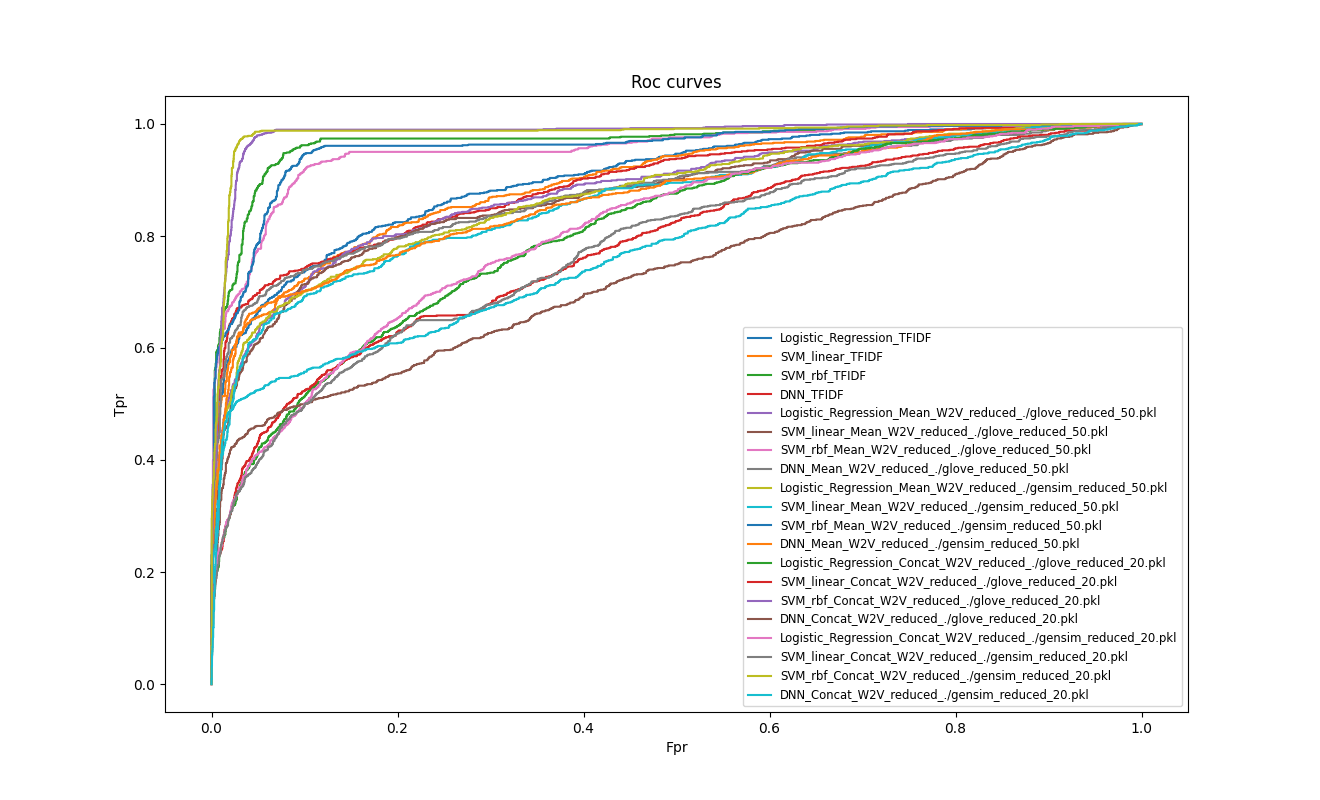
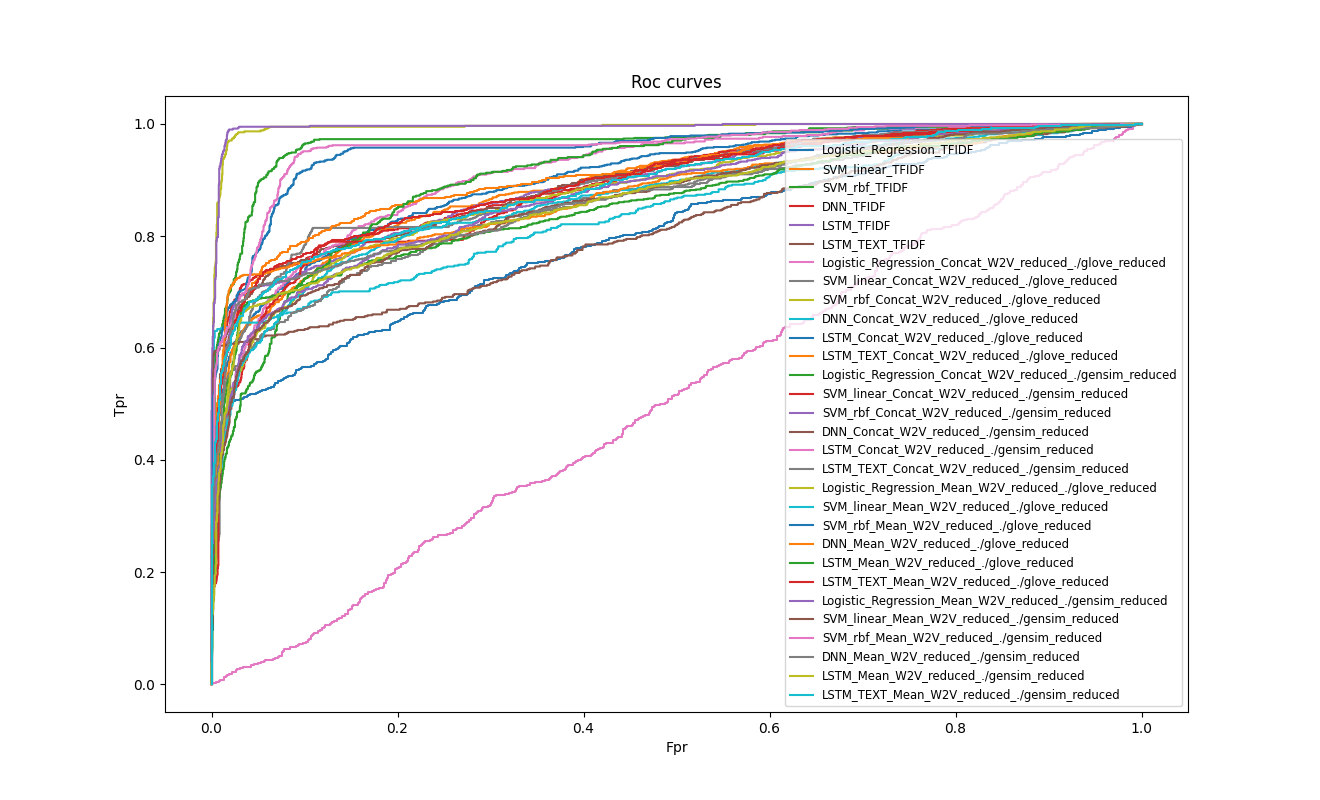
trump test

diff --git a/driver.py b/driver.py
@@ -10,6 +10,7 @@ from classifier import LRClassifier, BasicNN, SVMClassifier, LSTMClassifier, Tex
 from visualize import plot_all
 import numpy as np
 import pickle
+import pandas as pd
 
 VECTOR_SIZE = 50
 CONCAT_VECTOR_SIZE = 30
@@ -17,9 +18,7 @@ NUM_OF_WORDS = 14
 ID_1 = 313278889
 ID_2 = 302680665
 N_META_FEATURES = 9
-BEST_CLS = TextNumericalInputsClassifier(vector_size=VECTOR_SIZE, n_layers=2, linear_dim=64,
-                                         dense_size=64, numeric_feature_size=N_META_FEATURES,
-                                         dropout=0.2)  # todo: change cls according to the best one.
+BEST_CLS = SVMClassifier(kernel='rbf')
 
 
 def load_best_model():
@@ -171,6 +170,31 @@ def save_pred_to_file(pred_list):
         for item in pred_list:
             f.write("%s " % item)
 
+def trump_test(m, fn):
+    """
+    Args:
+        m: the trained model
+        fn: the full path to a file in the same format as the test set
+
+    Returns:
+        list: a list of 0s and 1s, corresponding to the lines in the specified file.
+    """
+    vectorize = TFIDF(VECTOR_SIZE)
+
+    ds = preprocess(fn, train=True)
+    X, _ = vectorize.fit_transform(ds['text'], ds['device'])
+
+    if isinstance(m, TextNumericalInputsClassifier):
+        meta_features = calculate_features(fn, train=False).to_numpy()
+        X = np.hstack((meta_features, X))
+
+    y_pred = m.predict(X)
+    mask = (ds['timestamp'] < pd.Timestamp(year=2016, month=11, day=8)) & (ds['timestamp'] > pd.Timestamp(year=2016, month=10, day=8))
+    print("true:")
+    print(ds['device'][mask].to_list())
+    print("prediction:")
+    print(list(y_pred[mask]))
+    print(evaluate_metrics(ds['device'][mask].to_list(),list(y_pred[mask])))
 
 if __name__ == '__main__':
     # cls = load_best_model()
@@ -179,9 +203,9 @@ if __name__ == '__main__':
     # train_best_model()
 
     """ MAIN CODE FIND BEST"""
-    data = get_best_model("accuracy", "trump_train.tsv")
+    # data = get_best_model("accuracy", "trump_train.tsv")
     # data = load_data()
-    plot_all(data)
+    # plot_all(data)
 
     """ SAVE W2V CODE"""
     # ds = preprocess('trump_train.tsv', train=True)
@@ -197,3 +221,8 @@ if __name__ == '__main__':
     # X = np.hstack((meta_features, X))
     # cls = TextNumericalInputsClassifier(input_size=VECTOR_SIZE, n_layers=2, linear_dim=64,
     #                                     dense_size=64, numeric_feature_size=meta_features.shape[1], dropout=0.2, n_epochs=5)
+
+    """ TRUMP TEST"""
+    m = train_best_model()
+    pred = trump_test(m,'trump_train.tsv')
+    print(pred)

diff --git a/visualize.py b/visualize.py
@@ -52,7 +52,7 @@ def plot_all(data):
         cls_name = "{}_{}".format(c_data["classifier"].to_string(),c_data["vectorize"].to_string())
         classifiers.append(cls_name)
         if (hasattr(c_data["classifier"], 'losses')):
-            losses.append(c_data["classifier"].losses)
+            losses.append(list(map(lambda x: x.detach().numpy(),c_data["classifier"].losses)))
             losses_classifiers.append(cls_name)
         for metric in bars.keys():
             bars[metric].append(c_data["scores"][metric])
@@ -64,8 +64,8 @@ def plot_all(data):
         plot_bars(classifiers,bars[metric],metric)
     
     ## plot losses
-    if (len(losses)>0):
-        plot_loss_graphs(losses_classifiers,losses)
+    # if (len(losses)>0):
+    #     plot_loss_graphs(losses_classifiers,losses)
     
     ## plot rocs
     plot_rocs(classifiers,rocs)

diff --git a/preprocess.py b/preprocess.py
@@ -13,6 +13,7 @@ TIMESTAMP_FEATURES = {
     "month": True,
     "hour": True,
     "minute": True,
+    "year": True
 }
 
 
@@ -129,6 +130,8 @@ def timestamp_preprocess(ds, column, name):
                 ds[feature] = ts.apply(lambda X: X.hour)
             elif feature == "minute":
                 ds[feature] = ts.apply(lambda X: X.minute)
+            elif feature == "year":
+                ds[feature] = ts.apply(lambda X: X.year)
     return ds
 
 
